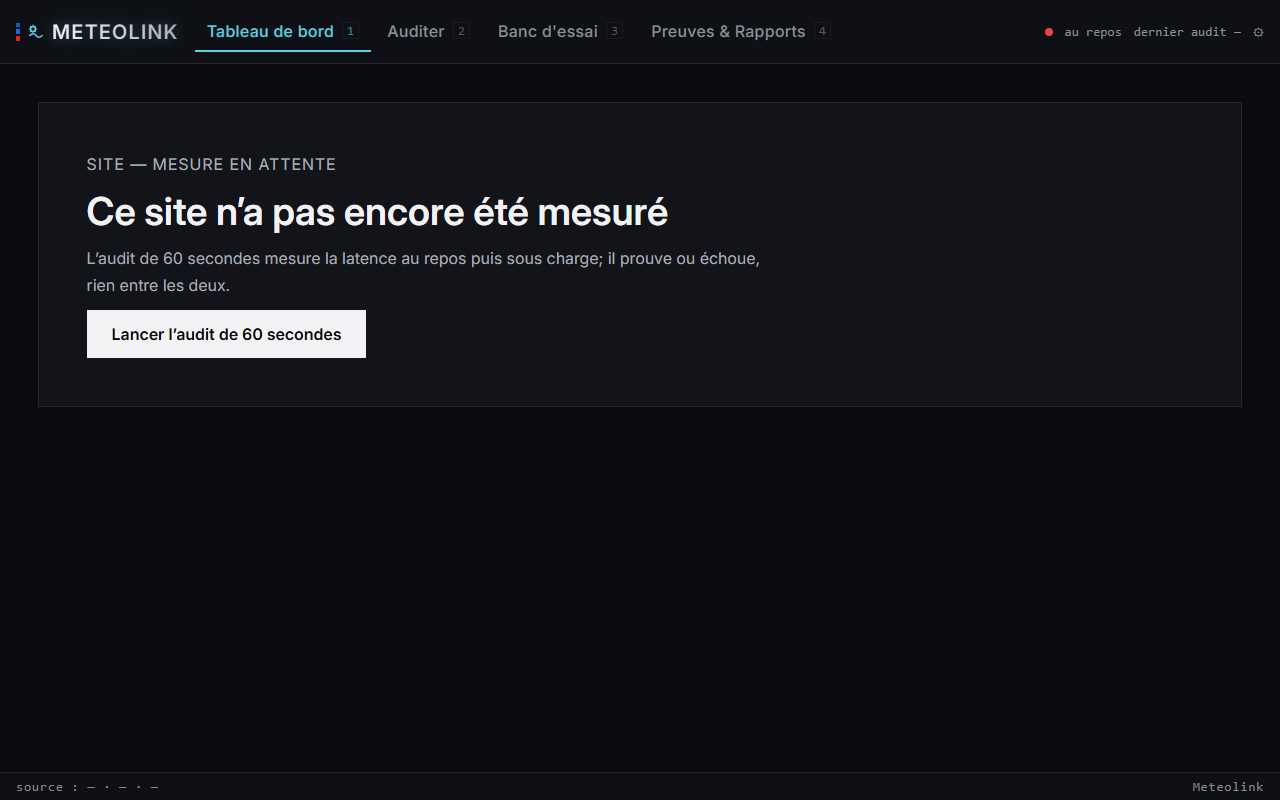
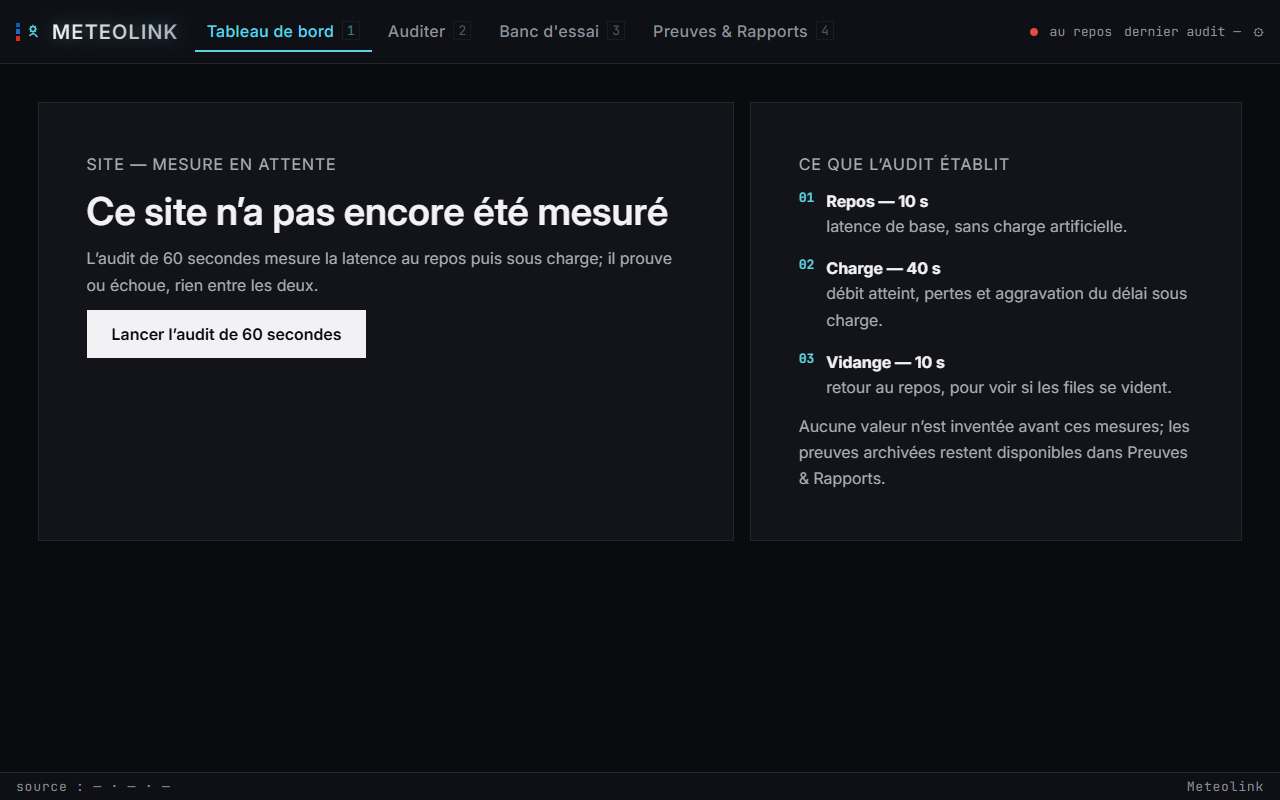
fix(web): remplit l’état absent du tableau de bord

diff --git a/web/frontend/src/views/DashboardView.tsx b/web/frontend/src/views/DashboardView.tsx
@@ -68,17 +68,28 @@ export default function DashboardView() {
   }, [])
 
   if (!report) {
+    const hasArchives = archives != null && archives.length > 0
     return (
-      <div className="syn dash">
-        <section className="layout-grid">
-          <div className="layout-span-12 state-card state-absent" data-testid="dash-absent">
+      <div className="syn dash dash-absent-page">
+        <section className="layout-grid dash-absent-grid">
+          <div className="layout-span-7 state-card state-absent" data-testid="dash-absent">
             <p className="state-kicker">Site — mesure en attente</p>
             <h1>Ce site n’a pas encore été mesuré</h1>
             <p>L’audit de 60 secondes mesure la latence au repos puis sous charge; il prouve ou échoue, rien entre les deux.</p>
             <div className="layout-action">
               <button className="btn btn-primary" onClick={() => setMode('audit')}>Lancer l’audit de 60 secondes</button>
+              {hasArchives ? <button className="btn" onClick={() => setMode('evidence')}>Voir un rapport archivé</button> : null}
             </div>
           </div>
+          <aside className="layout-span-5 state-card state-explain" aria-label="Ce que l’audit établit">
+            <p className="state-kicker">Ce que l’audit établit</p>
+            <ol className="absent-steps">
+              <li><span>01</span><div><b>Repos — 10 s</b><p>latence de base, sans charge artificielle.</p></div></li>
+              <li><span>02</span><div><b>Charge — 40 s</b><p>débit atteint, pertes et aggravation du délai sous charge.</p></div></li>
+              <li><span>03</span><div><b>Vidange — 10 s</b><p>retour au repos, pour voir si les files se vident.</p></div></li>
+            </ol>
+            <p className="dash-card-detail">Aucune valeur n’est inventée avant ces mesures; les preuves archivées restent disponibles dans Preuves &amp; Rapports.</p>
+          </aside>
         </section>
       </div>
     )

diff --git a/web/frontend/src/styles/index.css b/web/frontend/src/styles/index.css
@@ -130,6 +130,22 @@ main:focus { outline: none; }
 .dash-recent-list li { display: flex; align-items: center; justify-content: space-between; gap: var(--sp-2); padding: var(--sp-2) 0; border-top: 1px solid var(--hairline-faint); }
 .dash-recent-list li:first-child { border-top: 0; }
 .btn-mini { padding: var(--sp-1) var(--sp-2); min-height: 36px; font-size: var(--fs-fine); }
+.dash-absent-page { flex: 1; display: flex; flex-direction: column; justify-content: center; min-height: min(640px, calc(100vh - 140px)); }
+.dash-absent-grid { align-items: stretch; }
+.state-explain { justify-content: center; }
+.absent-steps { list-style: none; padding: 0; margin: 0; display: flex; flex-direction: column; gap: var(--sp-3); width: 100%; }
+.absent-steps li { display: flex; gap: var(--sp-3); align-items: flex-start; padding-top: var(--sp-3); border-top: 1px solid var(--hairline-faint); }
+.absent-steps li:first-child { border-top: 0; padding-top: 0; }
+.absent-steps span { color: var(--t-live); font: 600 var(--fs-fine)/1.4 var(--font-mono); }
+.absent-steps b { color: var(--text-primary); font-size: var(--fs-body); }
+.absent-steps p { margin: var(--sp-1) 0 0; color: var(--text-body); font-size: var(--fs-fine); line-height: 1.5; }
+@media (max-width: 1100px) { .dash-absent-page { justify-content: flex-start; } }
+@media (max-height: 820px) {
+  .dash-absent-page { justify-content: flex-start; min-height: auto; }
+  .state-card { padding: var(--sp-3); }
+  .absent-steps { gap: var(--sp-2); }
+  .absent-steps li { padding-top: var(--sp-2); }
+}
 .state-card { border: 1px solid var(--hairline); background: var(--surface-card); padding: clamp(1.5rem, 4vw, 3rem); display: flex; flex-direction: column; gap: var(--sp-3); align-items: start; }
 .state-card h1 { margin: 0; color: var(--text-primary); font: 600 clamp(1.75rem, 3vw, 2.5rem)/1.15 var(--font-ui); max-width: 24ch; }
 .state-card p { margin: 0; color: var(--text-body); font-size: var(--fs-body);line-height: 1.65; max-width: 68ch; }
